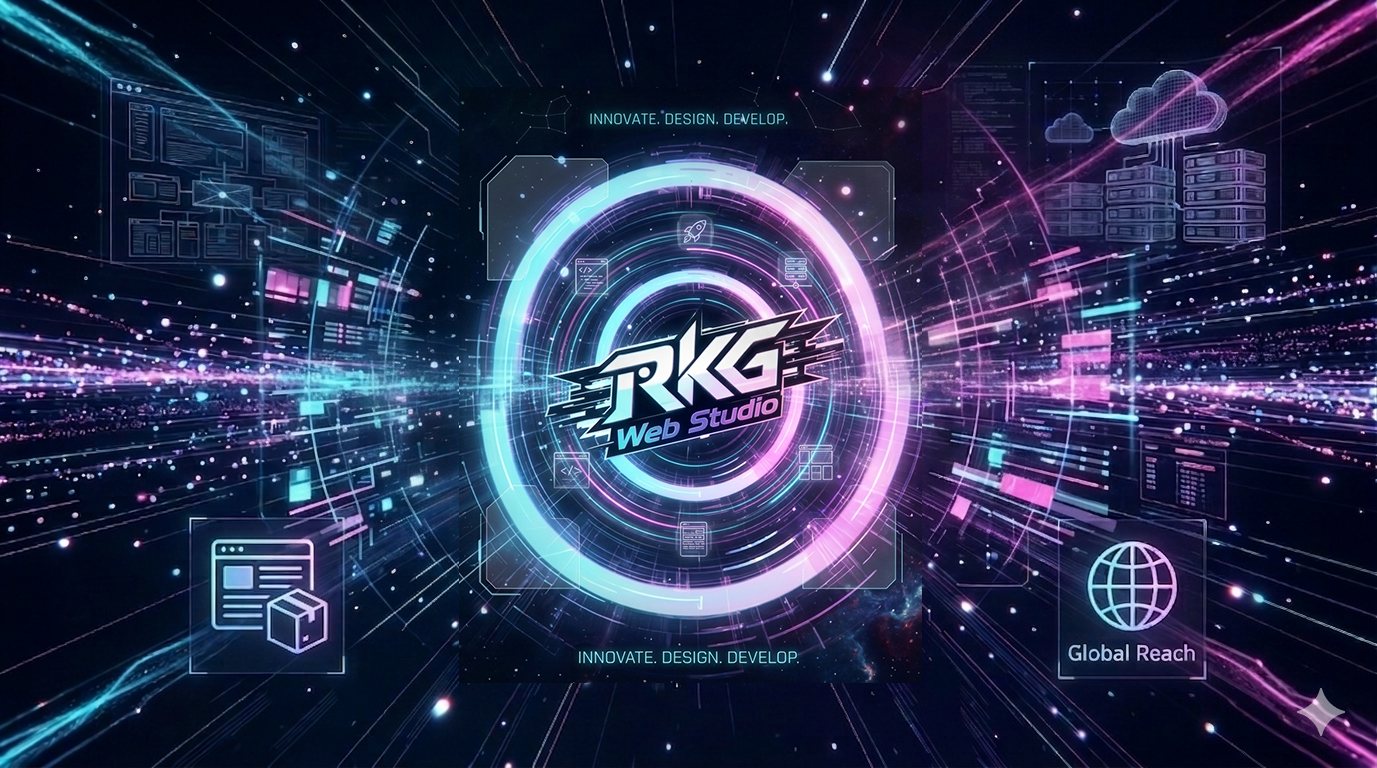
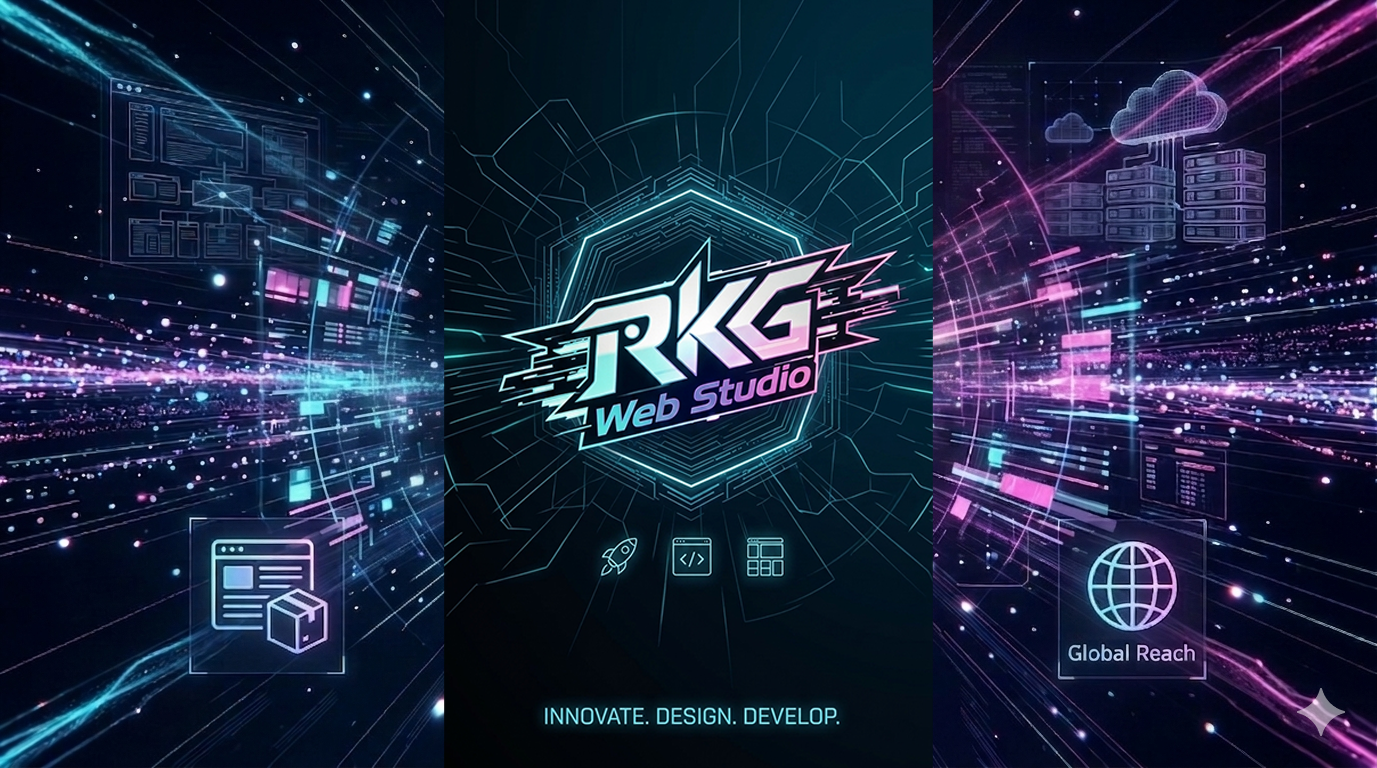
Add files via upload

diff --git a/index.html b/index.html
@@ -44,6 +44,7 @@
 				Portfolios
 				</a>
 				<ul class="dropdown-menu " aria-labelledby="navbarDropdown">
+				<li><a class="dropdown-item " href="#portfolio3">Portfolio 3.0</a></li>
 				<li><a class="dropdown-item " href="#portfolio2">Portfolio 2.0</a></li>
 				<li><a class="dropdown-item " href="#portfolio1">Portfolio 1.0</a></li>
 			</ul>
@@ -75,6 +76,25 @@
     <!--<a href="https://ryangarcia24.wixsite.com/rkg-portfolio" target="_blank" class="cyber-btn">
     <span class="glitch-bit">EXPLORE →</span>
     </a>-->
+   
+  </div>
+</section>
+
+<hr style="height: 2px; background-color: yellow; border: none;">
+
+  <!-- Portfolio 3.0 -->
+
+
+    <section id="portfolio3" class="portfolio3-section">
+    <div class="row">
+    <div class="col-md-6">
+    <div class="glass-container">
+    <h1 class="glass-text">RKG PORTFOLIO 3.0</h1>
+    <p class="glass-text">This portfolio website showcases a dual-discipline professional identity, blending technical expertise with creative vision. The design utilizes a high-contrast, modern aesthetic—featuring bold typography and a dark, textured background—to position the creator as a versatile expert in the digital space.</p>
+    <br>
+  <a href="https://rkg.framer.website/" target="_blank" class="cyber-btn">
+  <span class="glitch-bit">EXPLORE →</span>
+</a>
    
   </div>
 </section>

diff --git a/css/style.css b/css/style.css
@@ -22,6 +22,28 @@ body {
 }
 
 
+.portfolio3-section {
+  height: 100vh; /* Adjust height as needed */
+    width: 100%;
+    background: radial-gradient(circle, rgba(0,0,0,0) 0%, rgba(0,0,0,0.6) 100%), url(../images/hero3.png) no-repeat center center/cover; /* Glass needs a background to pop! */
+    
+    /* Flexbox positioning */
+    display: flex;
+    align-items: flex-end;    /* Pushes content to the bottom */
+    justify-content: flex-start; /* Pushes content to the left */
+    padding: 40px;            /* Adds "breathing room" from the edges */
+    box-sizing: border-box;
+  }
+  
+  /* Media query for mobile devices (typically 768px and below) */
+@media (max-width: 768px) {
+  .hero-section {
+    background: radial-gradient(circle, rgba(0,0,0,0) 0%, rgba(0,0,0,0.6) 100%), 
+                url(../images/hero2.png) no-repeat center center/cover;
+  }
+}
+
+
 .portfolio2-section {
     position: relative; /* Essential for absolute children */
     height: 100vh;
